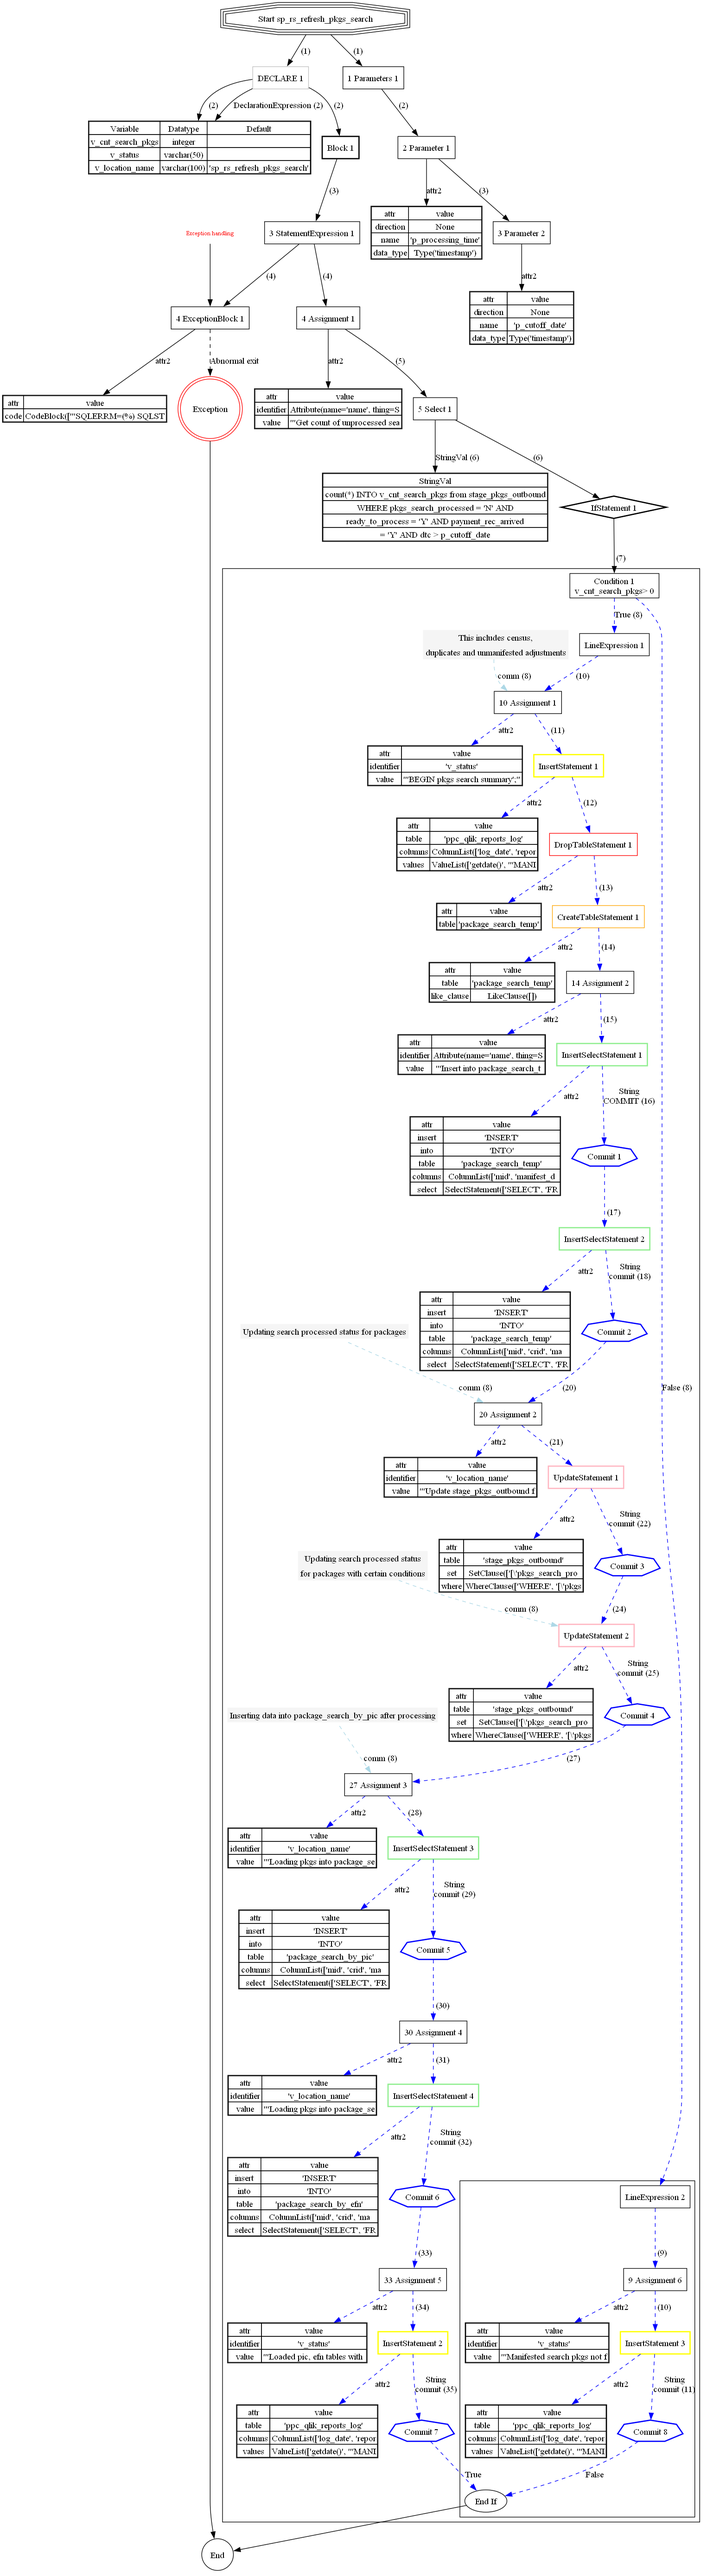
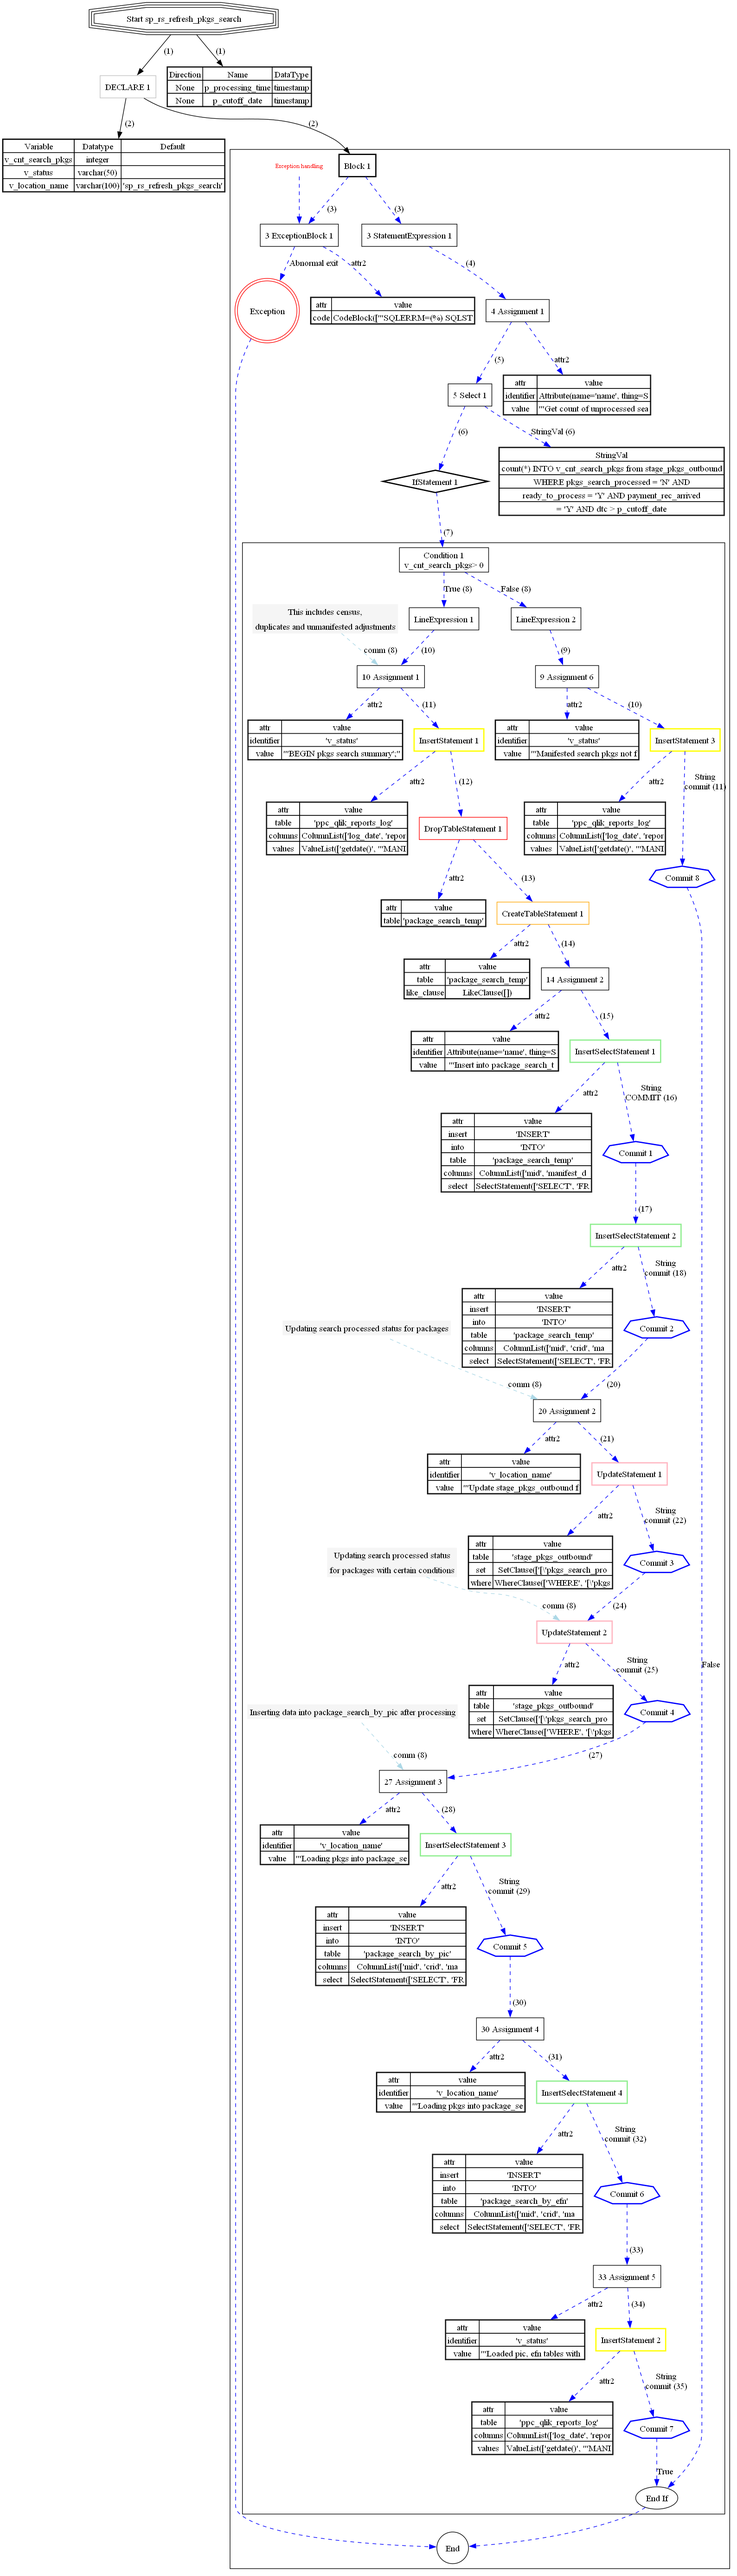
new

Changed region(s): [[0.0, 0.0, 1.0, 0.9982]]

diff --git a/final.py b/final.py
@@ -150,6 +150,47 @@ class Block(List, Base, Local):
 	def get_dot(self):
 		
 		return f'{self.name} [shape="box", style=bold, color="black", label="{self.label} {apc.cntr.get(self)}" ];'
+		
+
+	def init(self, parent, lid):
+		Base.init(self,parent, lid)
+		#assert type(parent) in [apc.parsed]
+		
+	def show_attr(self, hdot, fdot):
+		pass
+	def show_children(self, cfrom, hdot, fdot):
+		base_classes = self.__class__.__bases__
+		assert not str in base_classes, base_classes
+		cfdot =  []
+		attr=self.parent.attr
+		#bids=[]
+		for cid,c in enumerate(self):
+			
+			c.get_full_dot(self, self.name, cid, hdot, cfdot, self.level+1)
+			cfrom = c
+			#bids.append([apc.gid, ck])
+
+		
+		self.get_subgraph(cfdot, fdot)
+		#end_if= f'end_if_{self.parent.gid}'
+		#fdot.append(f'{end_if} -> end;')
+
+	def get_subgraph(self, cfdot, fdot):
+		fdot.append(f'''
+		subgraph Cluster_{self.name}{{
+		edge [color=blue, style=dashed];
+		node [color=lightblue, style=filled];
+		''')
+		fdot +=cfdot
+		fdot.append('''
+		}''')
+		#pp(cfdot)
+		#e()
+		
+
+		
+		
+		
 class Identifier(str):
 	grammar = re.compile(r'[a-zA-Z_]\w*')
 
@@ -187,7 +228,7 @@ class DeclarationExpression(List,Base, Local):
 				{os.linesep.join(out)}
 			</TABLE>
 		>];''')
-		if 1:
+		if 0:
 			fdot.append(f'{self.dfrom} -> {self.name}[label="{self.tname} ({self.level})" ];')
 
 
@@ -205,6 +246,11 @@ class Type(Keyword):
 	
 class Parameter(List, Base, Local):
 	grammar = attr("direction", optional("in")), attr("name", identifier), attr("data_type", Type)
+	def get_dot(self):
+		
+		return f'<TR><TD >{self.attr["direction"]}</TD><TD >{self.attr.get("name")}</TD><TD >{self.attr.get("data_type")}</TD></TR>'
+
+	
 language_keyword = Keyword("language")
 
 class Language(str, Base, Local):
@@ -219,17 +265,18 @@ class Parameters(List, Base, Local):
 		out=[]
 		for cid,c in enumerate(self):
 			c.init(self, cid)
+			c.level=self.level+1
 			#pp(c.attr)
 			#e()
 			out.append(c.get_dot())
 		hdot.append( f'''
 		{self.name} [shape=none, margin=0, label=<
 			<TABLE BORDER="1" CELLBORDER="1" CELLSPACING="0">
-				<TR><TD >Variable</TD><TD >Datatype</TD><TD >Default</TD></TR>
+				<TR><TD >Direction</TD><TD >Name</TD><TD >DataType</TD></TR>
 				{os.linesep.join(out)}
 			</TABLE>
 		>];''')
-		if 1:
+		if 0:
 			fdot.append(f'{self.dfrom} -> {self.name}[label="{self.tname} ({self.level})" ];')
 
 	
